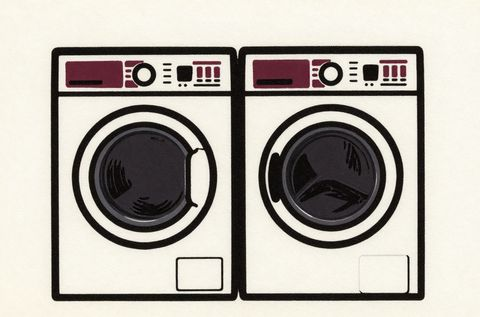
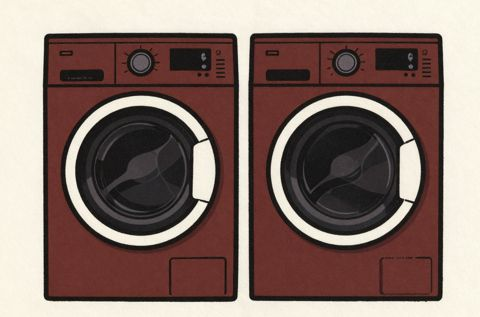
Replay page: layout fixes

diff --git a/docs/index.html b/docs/index.html
@@ -36,7 +36,7 @@
   --edge:"Red Hat Mono",ui-monospace,Consolas,monospace; --hand:"Shantell Sans","Segoe Print",cursive;
 }
 @media (prefers-color-scheme:dark){
-  :root{ --ground:#231b17; --text:var(--cream); --soft:#d9c3a3; --panel:#30251f; --panel-text:var(--cream); --rule:rgba(249,234,212,.16); --grid:rgba(249,234,212,.045); --keep:#63d3a6; --slash-ink:#ff7566; --maroon:#f0a58f; }
+  :root{ --ground:#231b17; --text:var(--cream); --soft:#d9c3a3; --panel:#30251f; --panel-text:var(--cream); --rule:rgba(249,234,212,.16); --grid:rgba(249,234,212,.045); --keep:#63d3a6; --slash-ink:#ff7566; --maroon:#f0a58f; --check:#fbc23a; }
 }
 *{box-sizing:border-box}
 html{scroll-behavior:smooth;-webkit-text-size-adjust:100%;overflow-x:clip}
@@ -54,38 +54,41 @@ p{margin:0;text-wrap:pretty}
 .hero{position:relative;padding:26px 0 0}
 .by{font-size:15px;font-weight:500;position:relative;z-index:3}
 .by b{font-weight:700}
-h1{font-size:clamp(64px,17.5vw,168px);margin:18px 0 0 -4px;position:relative;z-index:3}
+h1{font-size:clamp(62px,17vw,168px);margin:30px 0 0 2px;position:relative;z-index:3}
 h1 span{display:block}
 h1 .circled{position:relative;display:inline-block}
-h1 .circled svg{position:absolute;left:-7%;top:-11%;width:114%;height:128%;overflow:visible;pointer-events:none}
-.loop{fill:none;stroke:var(--keep);stroke-width:4;stroke-linecap:round;stroke-dasharray:1400;stroke-dashoffset:1400;animation:draw 1.1s .35s cubic-bezier(.6,.1,.2,1) forwards;vector-effect:non-scaling-stroke}
+h1 .circled svg{position:absolute;left:-8%;top:-17%;width:116%;height:140%;overflow:visible;pointer-events:none}
+.loop{fill:none;stroke:var(--keep);stroke-width:4.5;stroke-linecap:round;stroke-dasharray:1400;stroke-dashoffset:1400;animation:draw 1.1s .35s cubic-bezier(.6,.1,.2,1) forwards;vector-effect:non-scaling-stroke}
 @keyframes draw{to{stroke-dashoffset:0}}
 .lede{font-size:clamp(19px,2.3vw,23px);line-height:1.4;max-width:21em;margin-top:20px;font-weight:500;position:relative;z-index:3}
 
 .sheet{background:var(--sheet);color:var(--rebate);padding:14px 0 10px;box-shadow:0 18px 30px -14px rgba(60,25,10,.55),0 2px 0 rgba(0,0,0,.25)}
-.hero .sheet{position:relative;z-index:2;margin:44px 0 0 -8px;width:max-content;transform:rotate(-2.4deg);transform-origin:left center}
+@media (prefers-color-scheme:dark){.sheet{outline:1px solid rgba(249,234,212,.28)}.band{border-top-color:var(--stock)!important}.stage{outline:1px solid rgba(249,234,212,.16)}}
+.hero .sheet{position:relative;z-index:2;margin:34px 0 0 -8px;width:max-content;transform:rotate(-2.4deg);transform-origin:left center}
 .strip{display:flex;gap:10px;padding:0 14px;position:relative}
 .strip + .strip{margin-top:12px}
-.frame{flex:0 0 auto;width:clamp(120px,31vw,196px);position:relative}
+.frame{flex:0 0 auto;width:clamp(84px,22.5vw,196px);position:relative}
 .frame img{aspect-ratio:3/2;object-fit:cover;width:100%;background:var(--cream)}
 .frame .no{display:flex;justify-content:space-between;padding:5px 2px 0;color:var(--rebate);font:400 10.5px/1 var(--edge);opacity:.85}
 .mark{position:absolute;left:-6px;top:-6px;width:calc(100% + 12px);height:calc(100% - 4px);overflow:visible;pointer-events:none}
 .mark path{fill:none;stroke-width:4.5;stroke-linecap:round;stroke-linejoin:round;vector-effect:non-scaling-stroke}
 .keep .mark path{stroke:var(--keep-lit)}
 .gone .mark path{stroke:var(--slash)}
-.frame .tag{position:absolute;left:4px;bottom:22px;background:var(--stock);color:var(--ink);font:500 13px/1.1 var(--hand);padding:3px 7px 4px;transform:rotate(-3deg);box-shadow:0 2px 0 rgba(0,0,0,.3);white-space:nowrap}
+.frame .tag{position:absolute;left:3px;bottom:20px;background:var(--stock);color:var(--ink);font:500 clamp(11px,3vw,13px)/1.1 var(--hand);padding:3px 7px 4px;transform:rotate(-3deg);box-shadow:0 2px 0 rgba(0,0,0,.3);white-space:nowrap}
 .gone .tag{background:var(--cream);transform:rotate(2deg)}
 .cut{flex:0 0 auto;width:0;border-left:3px dashed var(--slash);margin:-8px 4px 14px;position:relative}
+.cut.bare{margin:-14px 4px -14px}
+.hero .strip + .strip .cut{margin-bottom:-10px}
 .cut span{position:absolute;bottom:-34px;left:-4px;transform:translateX(-50%) rotate(-2deg);background:var(--slash);color:#fff;font:500 14px/1 var(--hand);padding:5px 9px 6px;white-space:nowrap;z-index:4}
 
-.facts{position:relative;z-index:3;display:grid;gap:22px;margin-top:62px;padding-bottom:8px}
+.facts{position:relative;z-index:3;display:grid;gap:22px;margin-top:66px;padding-bottom:8px}
 .fact{display:grid;grid-template-columns:minmax(7.4rem,max-content) 1fr;gap:4px 14px;align-items:baseline;max-width:34em}
 .fact b{font:800 clamp(44px,9vw,76px)/.9 var(--display);letter-spacing:-.03em;grid-row:span 2;white-space:nowrap}
 .fact b small{font-size:.42em;letter-spacing:-.01em;font-weight:500}
 .fact p{font-size:17px;font-weight:500;line-height:1.35;align-self:end}
 .fact .how{font-size:14.5px;color:var(--soft);font-weight:400;align-self:start}
 .plain{position:relative;z-index:3;margin-top:22px;max-width:36em;font-size:15.5px;line-height:1.5}
-.actions{display:grid;gap:12px;margin:26px 0 0;position:relative;z-index:3}
+.actions{display:grid;gap:12px;margin:24px 0 0;position:relative;z-index:3}
 .btn{display:inline-flex;align-items:center;justify-content:center;gap:8px;font:700 17px/1 var(--body);padding:16px 22px;border:2px solid var(--ink);background:var(--ink);color:var(--stock);text-decoration:none;cursor:pointer;border-radius:3px;min-height:52px}
 .btn.alt{background:transparent;color:var(--text);border-color:var(--text)}
 .btn:active{transform:translateY(1px)}
@@ -100,7 +103,7 @@ h2{font-size:clamp(36px,7.4vw,64px)}
 
 /* ---------- the claim: an order envelope ---------- */
 .envelope{background:var(--panel);color:var(--panel-text);margin-top:26px;position:relative;box-shadow:0 22px 34px -20px rgba(60,25,10,.6)}
-.envelope::before{content:"";position:absolute;left:0;right:0;top:0;height:14px;background:repeating-linear-gradient(90deg,var(--maroon) 0 14px,transparent 14px 28px)}
+.envelope::before{content:"";position:absolute;left:0;right:0;top:0;height:14px;background:repeating-linear-gradient(90deg,var(--check,#793026) 0 14px,transparent 14px 28px)}
 .env-head{padding:34px 18px 14px;display:grid;gap:6px;border-bottom:2px solid var(--panel-text)}
 .env-head h3{font-size:clamp(24px,4.6vw,34px)}
 .env-head p{font:400 13px/1.5 var(--edge)}
@@ -137,11 +140,12 @@ h2{font-size:clamp(36px,7.4vw,64px)}
 .band{background:var(--sheet);color:var(--cream);margin-top:88px;padding:48px 0 40px;position:relative;border-top:8px solid var(--maroon)}
 .band h2{color:var(--stock)}
 .band .intro{color:var(--cream)}
-.roll{margin:14px -20px 0;overflow-x:auto;padding:14px 0 40px;scrollbar-width:none}
+.roll{margin:14px -20px 0;overflow-x:auto;padding:14px 0 40px;scrollbar-width:none;-webkit-mask-image:linear-gradient(90deg,#000 82%,transparent);mask-image:linear-gradient(90deg,#000 82%,transparent)}
+.swipe{font:500 15px/1 var(--hand);color:var(--stock);margin:-22px 0 14px}
 .roll::-webkit-scrollbar{display:none}
 .roll .strip{padding:0 20px;width:max-content}
-.roll .frame{width:clamp(96px,23vw,150px);opacity:.3;transition:opacity .4s}
-.roll .frame.seen{opacity:1}
+.roll .frame{width:clamp(96px,23vw,150px)}
+.roll .frame .no{opacity:1}
 .roll .mark path{stroke-dasharray:900;stroke-dashoffset:900;transition:stroke-dashoffset .7s ease-out}
 .roll .frame.seen .mark path{stroke-dashoffset:0}
 .stage{margin-top:18px;background:#241c19;border-top:4px solid var(--stock)}
@@ -151,7 +155,7 @@ h2{font-size:clamp(36px,7.4vw,64px)}
 .stage-head .count{font:400 13px/1 var(--edge);color:var(--rebate)}
 .stage-body{padding:4px 16px 8px;min-height:300px}
 .say{margin:0 0 14px;max-width:40em}
-.say .who{display:block;font:400 12px/1 var(--edge);color:var(--rebate);margin-bottom:6px}
+.say .who{display:block;font:400 13px/1 var(--edge);color:var(--cream);margin-bottom:6px}
 .say.you p{display:inline-block;background:var(--cream);color:var(--ink);padding:10px 14px;font-weight:500;border-radius:2px;box-shadow:0 2px 0 rgba(0,0,0,.4);transform:rotate(-.4deg)}
 .say.skill p{border-left:4px solid var(--keep-lit);padding:2px 0 2px 14px}
 .deleg{font:400 13px/1.55 var(--edge);background:#0c0808;color:var(--rebate);padding:11px 12px;margin:0 0 8px;overflow-wrap:anywhere;border-radius:2px}
@@ -167,7 +171,7 @@ h2{font-size:clamp(36px,7.4vw,64px)}
 .nav{display:flex;gap:10px;align-items:center;padding:12px 16px 16px}
 .nav button{font:700 16px/1 var(--body);padding:15px 20px;min-height:50px;border:2px solid var(--cream);background:transparent;color:var(--cream);border-radius:3px;cursor:pointer}
 .nav .next{background:var(--cream);color:var(--ink);margin-left:auto}
-.nav button:disabled{opacity:.5;cursor:default}
+.nav button:disabled{opacity:.6;cursor:default}
 .pips{display:flex;gap:5px;flex:1;justify-content:center}
 .pips i{width:16px;height:5px;background:#4a3f3b;border-radius:2px}
 .pips i.done{background:var(--rebate)} .pips i.cur{background:var(--stock)}
@@ -189,13 +193,13 @@ h2{font-size:clamp(36px,7.4vw,64px)}
 .ex-photo .frame{width:210px}
 .slip{background:var(--cream);color:var(--ink);font:400 13px/1.7 var(--edge);padding:16px 18px 20px;width:250px;position:relative;transform:rotate(1.4deg);box-shadow:0 12px 18px -12px rgba(60,25,10,.6);clip-path:polygon(0 0,100% 0,100% 94%,94% 100%,88% 94%,82% 100%,76% 94%,70% 100%,64% 94%,58% 100%,52% 94%,46% 100%,40% 94%,34% 100%,28% 94%,22% 100%,16% 94%,10% 100%,4% 94%,0 100%)}
 .slip p:first-child{font-weight:600}
-.slip .ask{display:inline-block;margin-top:8px;font:500 16px/1 var(--hand);color:var(--maroon);text-decoration:line-through;text-decoration-color:var(--slash);text-decoration-thickness:3px}
+.slip .ask{display:inline-block;margin-top:8px;font:500 16px/1 var(--hand);color:#793026;text-decoration:line-through;text-decoration-color:var(--slash);text-decoration-thickness:2px}
 .slip .no{font:800 26px/1 var(--display);color:var(--slash-ink);margin-left:12px;display:inline-block;transform:rotate(-6deg)}
 @media (prefers-color-scheme:dark){.slip .ask{color:#793026}.slip .no{color:#a81f18}}
 .cells{display:grid;grid-template-columns:auto 1fr;width:min(100%,300px);background:var(--panel);color:var(--panel-text);border:2px solid var(--panel-text);font:700 14px/1.2 var(--body);transform:rotate(-1deg);box-shadow:0 12px 18px -12px rgba(60,25,10,.6)}
 .cells span{padding:14px 12px}
 .cells .empty{border-left:2px solid var(--panel-text);font:500 16px/1.2 var(--hand);color:var(--soft);background:repeating-linear-gradient(-45deg,transparent 0 7px,var(--rule) 7px 8px)}
-.also{margin-top:34px;max-width:34em;font-size:18px;font-weight:500;padding-top:18px;border-top:2px solid var(--text)}
+.also{margin-top:34px;max-width:34em;font-size:18px;font-weight:500;padding-top:18px;border-top:2px solid var(--text);text-wrap:balance}
 /* ---------- what is real ---------- */
 .real{margin-top:26px;border-collapse:collapse;width:100%;max-width:46em}
 .real th,.real td{text-align:left;vertical-align:top;padding:13px 12px 13px 0;border-top:1px solid var(--text);font-size:16px}
@@ -210,22 +214,27 @@ footer p + p{margin-top:8px}
 .close .hand-note{display:table}
 footer .credit{color:var(--soft);font-size:14.5px}
 
-@media (max-width:420px){ .pips{display:none} }
+@media (max-width:420px){ .pips i{width:9px} .nav button{padding:15px 16px} }
 @media (min-width:860px){
   .hero{padding-top:40px}
-  .hero .sheet{margin:-36px 0 0 36%;transform:rotate(-3deg)}
+  .hero .sheet{margin:-190px 0 0 46%;transform:rotate(-3deg)}
+  .facts{margin-top:84px!important}
   .lede{margin-top:26px;max-width:17em}
   .facts{grid-template-columns:1fr 1fr;gap:34px;margin-top:70px}
   .camera{display:block}
   .actions{display:flex;flex-wrap:wrap}
   body{font-size:18px}
-  .row{grid-template-columns:96px 1.2fr 1.6fr auto;align-items:center;gap:6px 18px}
+  .row{grid-template-columns:96px 1fr 1.25fr 150px;align-items:center;gap:6px 18px}
+  .level{font-size:13.5px;padding:7px 10px 8px}
   .thumb,.thumb img{width:96px}
   .thumb{grid-row:auto}
   .level{justify-self:end}
   .env-head,.filters,.rows,.totals,.exhibits{padding-left:30px;padding-right:30px}
   .stage-head,.stage-body,.nav{padding-left:28px;padding-right:28px}
   .exhibits-3{grid-template-columns:1.25fr 1fr 1fr;gap:40px;align-items:start}
+  .ex{grid-template-rows:200px auto}
+  .ex > :first-child{align-self:end}
+  .also{max-width:none}
 }
 @media (prefers-reduced-motion:reduce){
   *{animation:none!important;transition:none!important;scroll-behavior:auto!important}
@@ -241,6 +250,10 @@ footer .credit{color:var(--soft);font-size:14.5px}
     <img class="camera" src="art/camera.jpg" width="480" height="320" alt="A compact film camera, drawn in two inks. Illustration made with AI.">
     <h1><span><span class="circled">Already<svg viewBox="0 0 400 130" preserveAspectRatio="none" aria-hidden="true"><path class="loop" d="M52 22 C150 2 300 4 372 30 C402 46 398 96 352 112 C262 132 108 130 34 108 C-2 92 0 40 40 24 C70 14 96 12 120 12"/></svg></span></span><span>Owned</span></h1>
     <p class="lede">After a flood, the insurer wants proof you owned what you lost. The proof is usually sitting in your camera roll. This add-on is built to find it.</p>
+    <div class="actions">
+      <a class="btn" href="#claim">See the claim it writes</a>
+      <a class="btn alt" href="#replay">Replay the run</a>
+    </div>
   </div>
 
   <div class="sheet" id="hero-sheet" role="img" aria-label="A contact sheet. Photos taken before the loss are boxed in marker. Photos taken after are crossed out."></div>
@@ -250,11 +263,7 @@ footer .credit{color:var(--soft);font-size:14.5px}
       <div class="fact"><b>22<small> of 27</small></b><p>things I lost were already in photos I had taken before the water.</p><p class="how">Counted by hand, photo by photo. It is the most any tool could find.</p></div>
       <div class="fact"><b>0<small> of 27</small></b><p>turned up when I searched the same library by file name and date.</p><p class="how">A phone names a photo 20251211_160058.jpg. It never says sofa.</p></div>
     </div>
-    <p class="plain">The 22 is counted by hand and the 0 is measured, both on my real claim. The add-on's own count is not measured yet: it needs the hardware. Everything below this line is a practice run on a made-up library.</p>
-    <div class="actions">
-      <a class="btn" href="#claim">See the claim it writes</a>
-      <a class="btn alt" href="#replay">Replay the run</a>
-    </div>
+    <p class="plain">Both numbers are from my real claim. The add-on's own count is not measured yet, because it needs the hardware.</p>
   </div>
 </header>
 
@@ -283,6 +292,7 @@ footer .credit{color:var(--soft);font-size:14.5px}
     <h2>Replay the run</h2>
     <p class="intro">Ten steps, from one sentence to the saved folder. You approve the writes yourself.</p>
     <div class="roll"><div class="strip" id="roll"></div></div>
+    <p class="swipe" id="swipe"></p>
     <div class="stage">
       <div class="stage-head"><span class="id" id="sid"></span><h3 id="sname"></h3><span class="count" id="scount"></span></div>
       <div class="stage-body" id="sbody" aria-live="polite"></div>
@@ -342,10 +352,10 @@ const CUT = '<div class="cut"><span>20 June, 2 am: the water</span></div>';
 
 // hero sheet: two strips, the cut between before and after
 const HERO = [
-  [['sofa','11','keep','sofa, 11 Dec','A leather sofa'],['washer','12','keep','','A washer and dryer'],['lamp','13','keep','lamp','A floor lamp'],['tv','14','keep','','A television']],
-  [['dumbbells','21','keep','','Dumbbells'],['chair','22','keep','chair, Jan','A gaming chair'],'cut',['flood-sofa','23','gone','21 June','The sofa standing in flood water'],['flood-boxes','24','gone','','Boxes in flood water']]
+  [['sofa','11','keep','sofa, 11 Dec','A leather sofa'],['washer','12','keep','','A washer and dryer'],['lamp','13','keep','lamp','A floor lamp'],'cutbare',['flood-sofa','14','gone','21 June','The sofa standing in flood water']],
+  [['dumbbells','21','keep','','Dumbbells'],['chair','22','keep','chair, Jan','A gaming chair'],['tv','23','keep','','A television'],'cut',['flood-boxes','24','gone','','Boxes in flood water']]
 ];
-$('hero-sheet').innerHTML = HERO.map((s, r) => `<div class="strip">${s.map((f, i) => f === 'cut' ? CUT : frame(f, r * 4 + i)).join('')}</div>`).join('');
+$('hero-sheet').innerHTML = HERO.map((s, r) => `<div class="strip">${s.map((f, i) => f === 'cut' ? CUT : f === 'cutbare' ? '<div class="cut bare"></div>' : frame(f, r * 5 + i)).join('')}</div>`).join('');
 
 // replay roll: frames light up as the steps reach them
 const ROLL = [['sofa','03','keep','','Sofa',3],['tv','04','keep','','Television',3],['chair','05','keep','','Gaming chair',3],['dumbbells','06','keep','','Dumbbells',4],['lamp','07','keep','','Floor lamp',4],['fridge','08','keep','','Mini-fridge',4],['washer','09','keep','','Washer and dryer',4],'cut',['flood-sofa','10','gone','','Sofa in flood water',2],['flood-boxes','11','gone','','Boxes in flood water',2]];
@@ -426,7 +436,12 @@ function render(){
   $('next').disabled = !!s.approve && approved < s.approve.length;
   $('next').textContent = i === STEPS.length - 1 ? 'Start over' : 'Next';
   [...$('pips').children].forEach((d, n) => d.className = n < i ? 'done' : n === i ? 'cur' : '');
-  document.querySelectorAll('#roll .frame').forEach(f => f.classList.toggle('seen', +f.dataset.at <= REACH[i] && +f.dataset.at > 0));
+  const fr = [...document.querySelectorAll('#roll .frame')];
+  fr.forEach(f => f.classList.toggle('seen', +f.dataset.at <= REACH[i] && +f.dataset.at > 0));
+  const n = fr.filter(f => f.classList.contains('seen')).length;
+  $('swipe').textContent = n ? `${n} of ${fr.length} frames marked so far. Swipe the strip to see them.` : 'Ten frames, none marked yet. Swipe the strip.';
+  const now = fr.find(f => +f.dataset.at === REACH[i] && (i === 0 || REACH[i] !== REACH[i - 1]));
+  if (now && i > 0) now.parentElement.parentElement.scrollTo({ left: Math.max(0, now.offsetLeft - 24), behavior: 'smooth' });
 }
 $('next').onclick = () => { if (i === STEPS.length - 1){ i = 0; approved = 0; } else i++; render(); };
 $('prev').onclick = () => { if (i > 0) i--; render(); };
@@ -434,7 +449,7 @@ $('prev').onclick = () => { if (i > 0) i--; render(); };
 const ROWS = [
  [1,'Leather reclining sofa, three seats','pr','photo 2024-08-15, receipt 1,799.99 CAD, value 1,800 CAD','sofa'],
  [2,'Flat-screen TV, about 55 inch','p','photo 2024-08-15, value 700 CAD from the owner','tv'],
- [3,'Stick vacuum','pr','photo 2024-09-03, invoice 2024-09-02, 799.99 CAD',''],
+ [3,'Stick vacuum','pr','photo 2024-09-03, invoice 2024-09-02, 799.99 CAD','vacuum'],
  [4,'Pull-up and dip station','pr','photo 2025-04-12, order 2025-04-08, 389.00 CAD',''],
  [5,'Gaming chair','p','photo 2025-01-18, value 300 CAD from the owner','chair'],
  [6,'Wooden armchair','x','two routes, no pre-loss photo found',''],
@@ -462,13 +477,13 @@ const ROWS = [
 const LABEL = { pr:'photo and receipt', p:'photo only', x:'no proof' };
 let all = false;
 function rows(){
-  const SAMPLE = [1, 3, 2, 11, 6, 9];
+  const SAMPLE = [1, 2, 3, 6, 9, 11];
   const shown = all ? ROWS : SAMPLE.map(n => ROWS[n - 1]);
   $('rows').innerHTML = shown.map(r => {
     const proven = r[2] !== 'x';
     const thumb = proven && r[4] ? `<div class="thumb"><img src="art/${r[4]}.jpg" width="480" height="320" loading="lazy" alt=""><svg viewBox="0 0 200 132" preserveAspectRatio="none" aria-hidden="true"><path d="${box(r[0] + 40)}"/></svg></div>`
       : proven ? '<div class="thumb filed">photo on file</div>' : '<div class="thumb none">no photo</div>';
-    const ev = r[3].replace(/(\d{4}-\d{2}-\d{2}|[\d,]+\.\d{2} CAD|[\d,]+ CAD)/g, '<span class="nw">$1</span>');
+    const ev = r[3].split(', ').map(c => c.length < 30 ? `<span class="nw">${c}</span>` : c).join(', ');
     return `<li class="row">${thumb}<h4><i>${String(r[0]).padStart(2,'0')}</i>${r[1]}</h4><p class="ev">${ev}</p><span class="level ${r[2]}">${LABEL[r[2]]}</span></li>`;
   }).join('');
   const c = k => ROWS.filter(r => r[2] === k).length;
